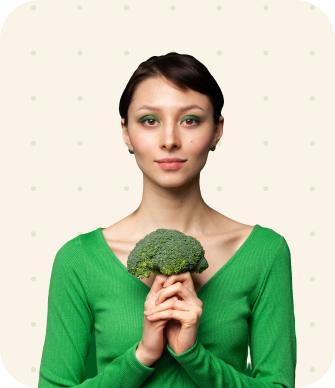
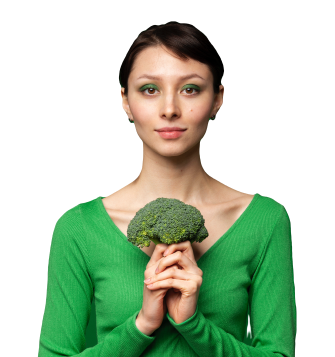
add callback 2

diff --git a/src/css/callback.css b/src/css/callback.css
@@ -3,11 +3,15 @@
   padding-bottom: 80px;
 }
 
-.wrapp-callback-text {
+.wrapp-callback {
   display: flex;
   flex-wrap: wrap;
   justify-content: center;
   margin-bottom: 40px;
+}
+
+.wrapp-callback-text {
+  max-width: 322px;
 }
 
 .callback-title {
@@ -19,7 +23,6 @@
   text-transform: uppercase;
   text-align: center;
   margin-bottom: 20px;
-  width: 321px;
 }
 
 .callback-text {
@@ -29,7 +32,6 @@
   letter-spacing: -0.56px;
   text-shadow: var(--shadow);
   text-align: center;
-  width: 321px;
   margin-bottom: 40px;
 }
 
@@ -87,14 +89,49 @@
   background-color: var(--color-35);
 }
 
+.wrapp-callback-img {
+  overflow: hidden;
+  position: relative;
+  width: 100%;
+  height: 388px;
+  background-color: #faf3e7;
+  border-radius: 40px;
+}
+
+.wrapp-callback-img::before {
+  content: '';
+  position: absolute;
+  top: 0;
+  left: 0;
+  width: 100%;
+  height: 100%;
+  background-image: url(../img/callback-img/el.png);
+  background-repeat: repeat;
+  background-position: 30px 5px;
+  opacity: 0.69;
+}
+
+.callback-img {
+  position: absolute;
+  bottom: 0;
+}
+
 @media screen and (min-width: 768px) {
   .callback {
     /* padding-top: 100px; */
     padding-bottom: 173px;
   }
 
-  .wrapp-callback-text {
+  .wrapp-callback {
+    flex-direction: column;
+    align-content: center;
+
     margin-bottom: 80px;
+  }
+
+  .wrapp-callback-text {
+    width: 499px;
+    max-width: unset;
   }
 
   .callback-title {
@@ -102,18 +139,33 @@
     font-size: 40px;
     line-height: 1.1;
     letter-spacing: -1.6px;
-    width: 499px;
   }
 
   .callback-text {
     font-size: 18px;
     line-height: 1.33;
     letter-spacing: -0.72px;
-    width: 499px;
   }
 
   .callback-form {
-    width: 350px;
+    display: flex;
+    width: 499px;
+    justify-content: center;
+  }
+
+  .wrapp-callback-btn {
+    width: 355px;
+  }
+
+  .wrapp-callback-img {
+    width: 100%;
+    height: 463px;
+    border-radius: 80px;
+  }
+
+  .callback-img {
+    left: 50%;
+    transform: translate(-50%);
   }
 }
 
@@ -128,11 +180,14 @@
     align-items: center;
   }
 
-  .wrapp-callback-text {
-    justify-content: left;
-    width: 614px;
+  .wrapp-callback {
+    align-content: flex-start;
     margin-right: 77px;
     margin-bottom: 0;
+  }
+
+  .wrapp-callback-text {
+    width: 614px;
   }
 
   .callback-title {
@@ -140,12 +195,21 @@
     line-height: 1.04;
     letter-spacing: -1.92px;
     text-align: left;
-    width: 614px;
+
     margin-bottom: 40px;
   }
 
   .callback-text {
     width: 523px;
     text-align: left;
+  }
+
+  .callback-form {
+    justify-content: left;
+  }
+
+  .wrapp-callback-img {
+    width: 525px;
+    height: 536px;
   }
 }
